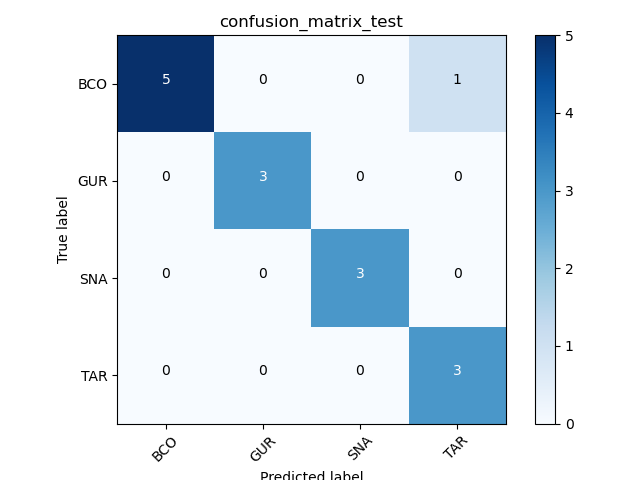
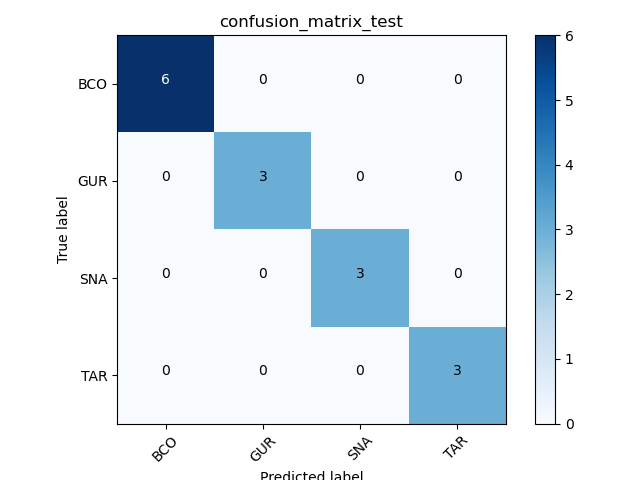
100 epochs

diff --git a/code/cnn/Main.py b/code/cnn/Main.py
@@ -18,7 +18,7 @@ from .plot import show_confusion_matrix, plot_loss, plot_accuracy
 
 # Hyperparameters
 batch_size = 32
-epochs = 30
+epochs = 100
 k = 10
 
 # Dataset
